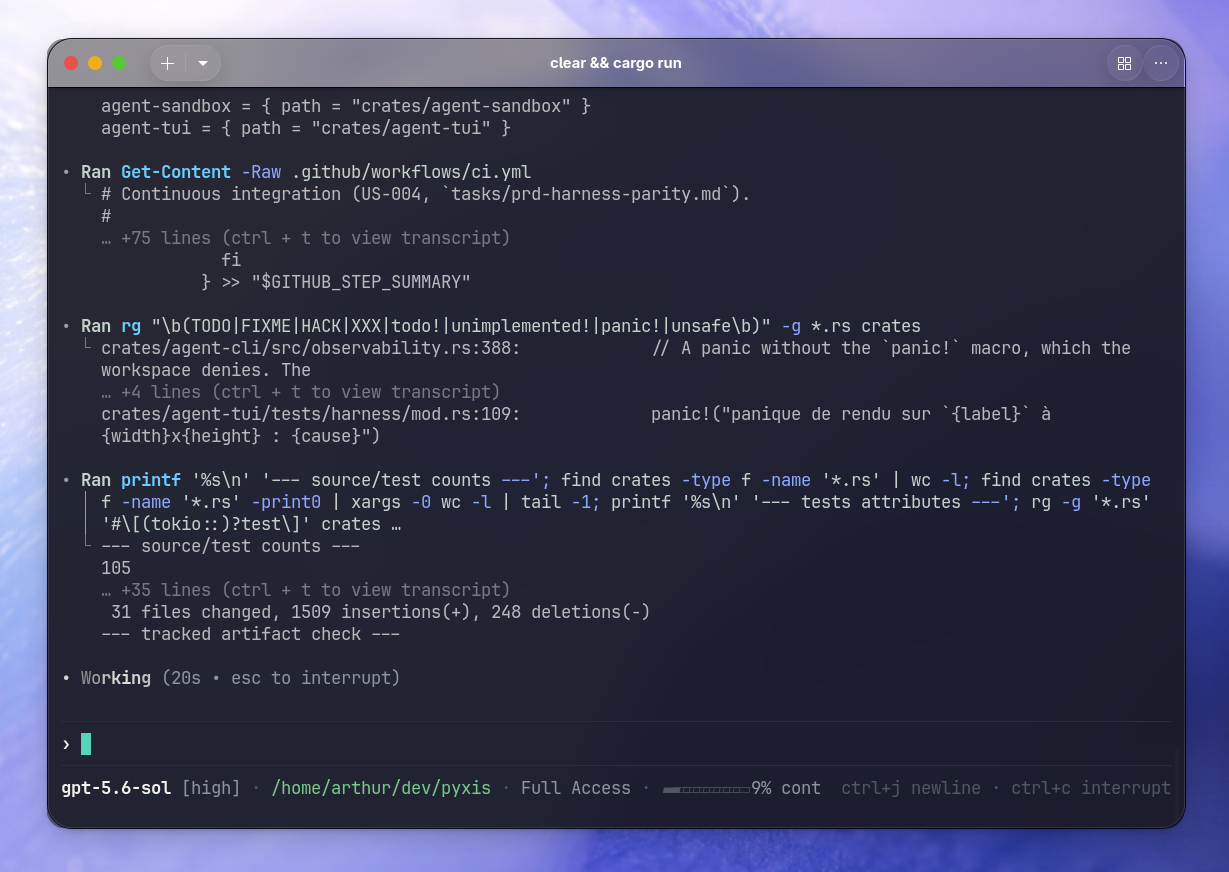
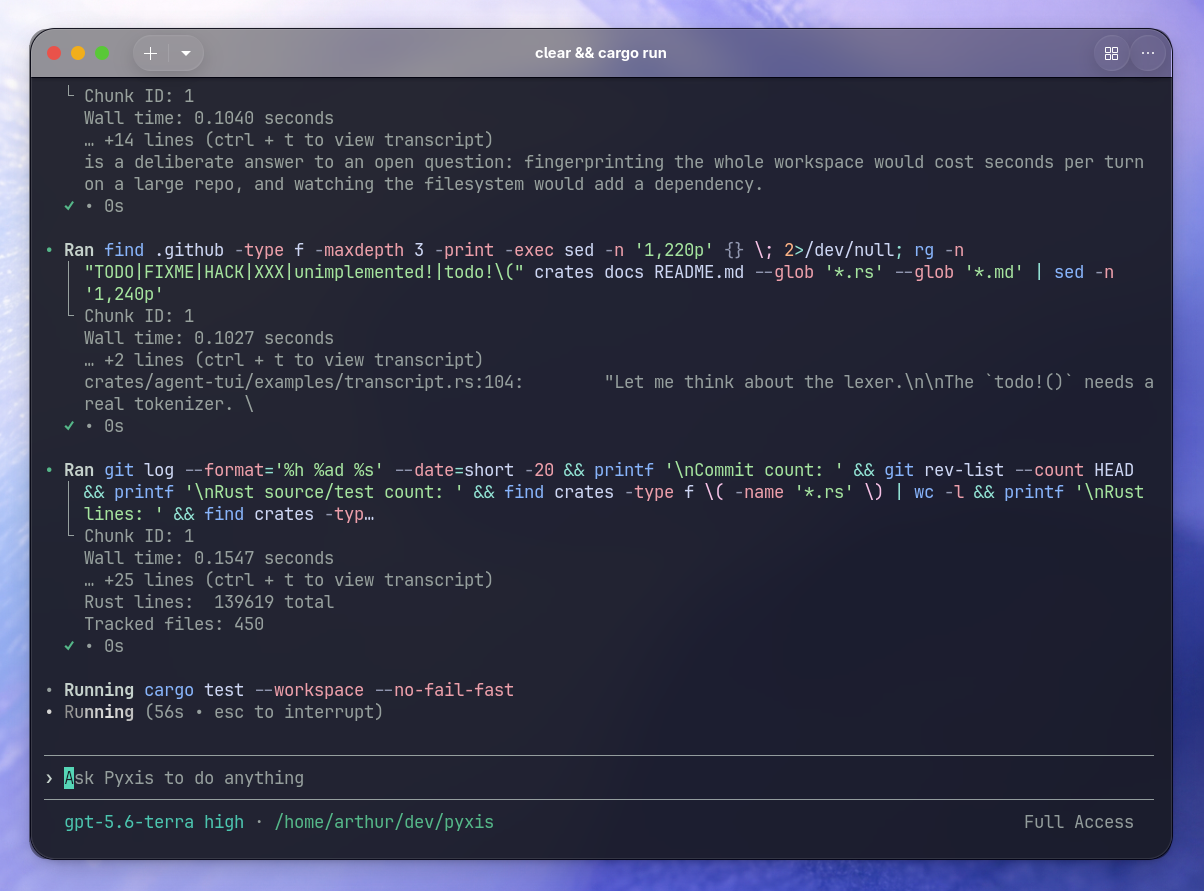
docs(readme): refresh the session screenshot and its caption

diff --git a/README.md b/README.md
@@ -25,10 +25,10 @@ Pyxis is built around a **headless core** (`agent-core`) that emits only structu
 </p>
 
 <p align="center">
-  <img src="assets/images/session.png" alt="A Pyxis session in flight: streamed tool calls (read, grep, bash) with collapsed output, a working spinner, and the status line showing the model, the workspace, the permission mode, and the remaining context" width="100%" />
+  <img src="assets/images/session.png" alt="A Pyxis session in flight: streamed bash tool calls with collapsed output, per-call wall time, a running cargo test that can be interrupted, and the status line showing the model, the reasoning effort, the workspace, and the permission mode" width="100%" />
 </p>
 <p align="center">
-  <sub>A session in flight: streamed tool calls with collapsed output, and a status line carrying the model, the workspace, the permission mode, and the remaining context.</sub>
+  <sub>A session in flight: streamed tool calls with collapsed output and per-call wall time, a long-running command you can interrupt, and a status line carrying the model, the reasoning effort, the workspace, and the permission mode.</sub>
 </p>
 
 ```console
